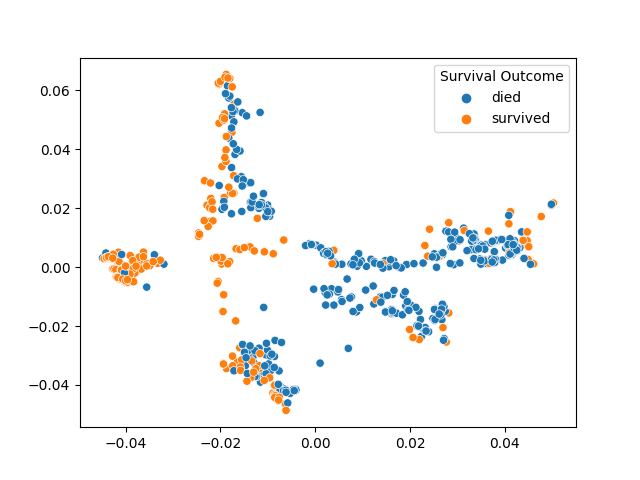
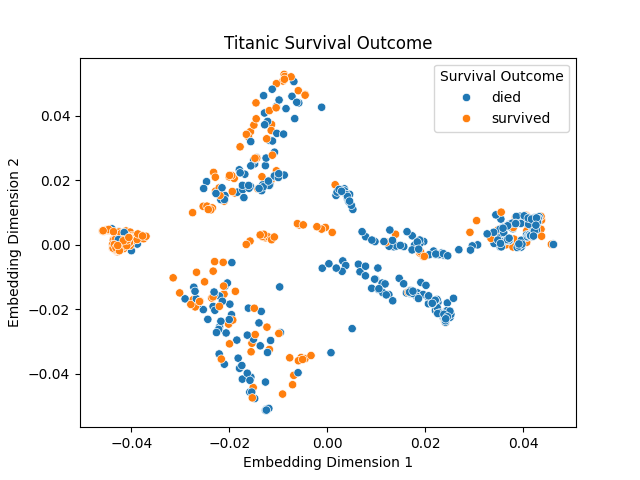
update readme figures

diff --git a/README.rst b/README.rst
@@ -26,19 +26,21 @@ Below is a quick demo of how to use RF-PHATE on the Titanic dataset:
 
 .. code-block:: python
 
+    import matplotlib.pyplot as plt
     from rfphate import RFPHATE
-    from dataprep import dataprep
+    from rfphate.dataprep import dataprep
     import pandas as pd
     import seaborn as sns
 
-    data = pd.read_csv('datasets/titanic.csv')
-    x, y = dataprep(data)
+    # Load the dataset
+    data = pd.read_csv('rfphate/datasets/titanic.csv')
 
-    rfphate = RFPHATE(y=y, random_state=0)
-    # Alternatively, rfphate = RFPHATE(prediction_type='classification', random_state=0)
+    # Prepare the data
+    x, y = dataprep(data, encoding = 'integer')
 
-    embedding = rfphate.fit_transform(x, y)
-    sns.scatterplot(x=embedding[:, 0], y=embedding[:, 1], hue=pd.Categorical(data.iloc[:, 0]))
+    # Initialize and fit the RFPHATE model
+    rfphate = RFPHATE(y = y, random_state = 42)
+    emb = rfphate.fit_transform(x, y)
 
 .. image:: figures/titanic.png
 
@@ -48,8 +50,10 @@ By passenger class:
 
 .. code-block:: python
 
-    sns.scatterplot(x=embedding[:, 0], y=embedding[:, 1], hue=pd.Categorical(data.iloc[:, 1]))
-    plt.legend(title='By Class')
+    plot = sns.scatterplot(x = emb[:, 0], y = emb[:, 1], hue = pd.Categorical(data['Pclass']), markers = {'survived': '.', 'died': 'X'}, style = data['Survived'], alpha = .8, palette = 'Dark2')
+    plot.set_title('RF-PHATE Embedding Colored by Pclass')
+    plot.set_xlabel('RF-PHATE 1')
+    plot.set_ylabel('RF-PHATE 2')
 
 .. image:: figures/titanic_class.png
 
@@ -57,8 +61,10 @@ By passenger sex:
 
 .. code-block:: python
 
-    sns.scatterplot(x=embedding[:, 0], y=embedding[:, 1], hue=pd.Categorical(data.iloc[:, 2]))
-    plt.legend(title='By Sex')
+    plot = sns.scatterplot(x = emb[:, 0], y = emb[:, 1], hue = data['Sex'], markers = {'survived': '.', 'died': 'X'}, style = data['Survived'], alpha = .9, palette = 'Dark2')
+    plot.set_title('RF-PHATE Embedding Colored by Sex')
+    plot.set_xlabel('RF-PHATE 1')
+    plot.set_ylabel('RF-PHATE 2')
 
 .. image:: figures/titanic_sex.png
 
